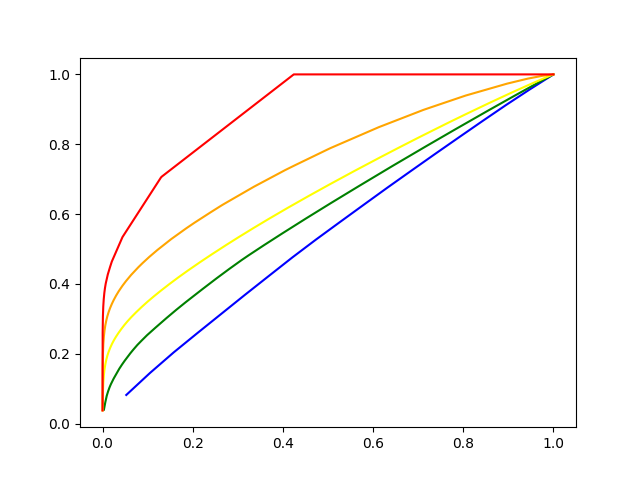
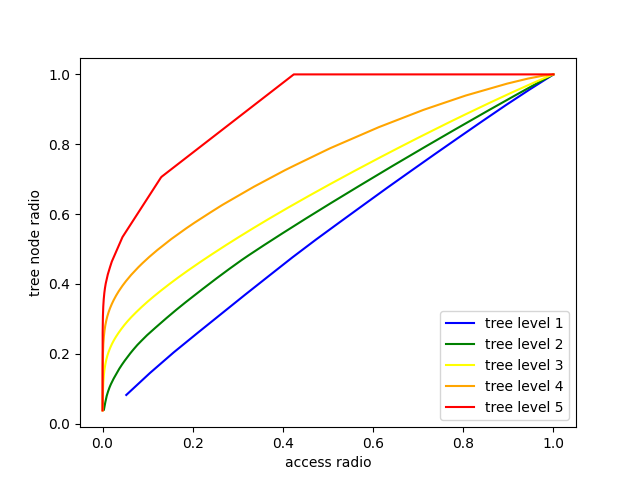
图例

diff --git a/draw_distribution.py b/draw_distribution.py
@@ -42,11 +42,17 @@ for i in range(1, max_level + 1):
     m[i] = [(j + 1) / len(l[i]) for j in range(len(l[i]))]
 
 
-plt.plot(m[1], l[1], color='blue')
-plt.plot(m[2], l[2], color='green')
-plt.plot(m[3], l[3], color='yellow')
-plt.plot(m[4], l[4], color='orange')
-plt.plot(m[5], l[5], color='red')
+l1 = plt.plot(m[1], l[1], color='blue')
+l2 = plt.plot(m[2], l[2], color='green')
+l3 = plt.plot(m[3], l[3], color='yellow')
+l4 = plt.plot(m[4], l[4], color='orange')
+l5 = plt.plot(m[5], l[5], color='red')
+
+plt.xlabel('access radio')
+plt.ylabel('tree node radio')
+
+plt.legend(handles=[l1, l2, l3, l4, l5],
+           labels=['tree level 1', 'tree level 2', 'tree level 3', 'tree level 4', 'tree level 5'])
 
 plt.savefig('1.png')
 # plt.show()
